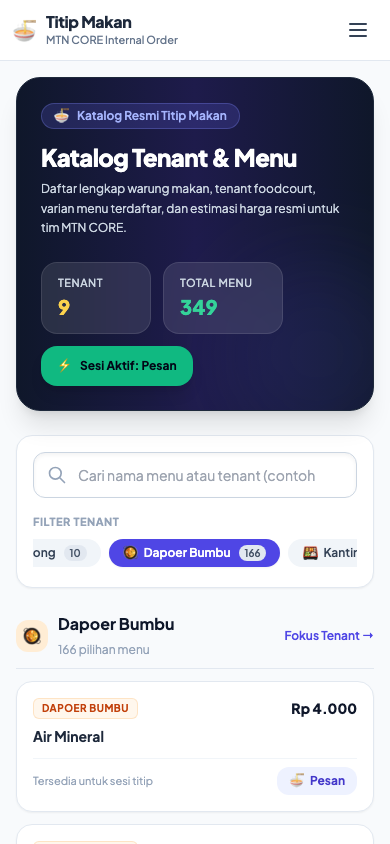
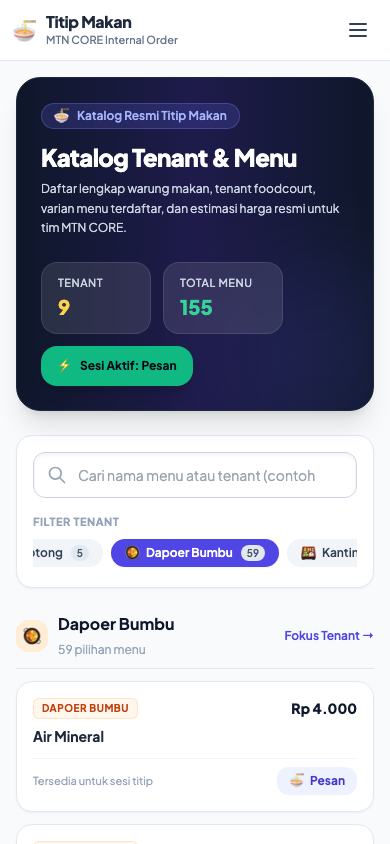
fix(catalog): deduplicate Dapoer Bumbu and Babun menu lists and strip vendor prefixes

diff --git a/src/titip_makan/static/js/app.js b/src/titip_makan/static/js/app.js
@@ -208,10 +208,10 @@ function handleMenuInput() {
         priceInput.value = suggestionsData.prices[val];
     }
 
-    // 2. Auto-fill tenant if empty and menu belongs to a known tenant
+    // 2. Auto-fill tenant if empty and menu belongs to a known tenant (exact match or prefixed with tenant name)
     if (tenantInput && !tenantInput.value.trim() && suggestionsData.menus) {
         for (const [t, menus] of Object.entries(suggestionsData.menus)) {
-            if (menus.includes(val)) {
+            if (menus.includes(val) || (val.toLowerCase().startsWith(t.toLowerCase() + " ") && menus.includes(val.substring(t.length + 1).trim()))) {
                 tenantInput.value = t;
                 updateMenuDatalist();
                 break;

diff --git a/src/titip_makan/core/catalog.py b/src/titip_makan/core/catalog.py
@@ -109,18 +109,14 @@ MASTER_CATALOG = {
         "Dapoer Bumbu Nasi Ayam Penyet": 20000,
         "Dapoer Bumbu Nasi Ayam Kremes": 20000,
         "Dapoer Bumbu Nasi Ayam Bakar": 20000,
-        "Dapoer Bumbu Nasi Ayam Penyet / Kremes / Bakar": 20000,
         "Dapoer Bumbu Ayam Bakar (Tanpa Nasi)": 15000,
         "Dapoer Bumbu Ayam Kremes (Tanpa Nasi)": 15000,
         "Dapoer Bumbu Ayam Penyet (Tanpa Nasi)": 15000,
-        "Dapoer Bumbu Ayam Bakar / Kremes / Penyet (Tanpa Nasi)": 15000,
         "Dapoer Bumbu Nasi Ayam Goreng Asam Manis": 20000,
         "Dapoer Bumbu Nasi Ayam Goreng Tauco": 20000,
-        "Dapoer Bumbu Nasi Ayam Goreng Asam Manis / Tauco": 20000,
         "Dapoer Bumbu Ayam Asam Manis (Tanpa Nasi)": 15000,
         "Dapoer Bumbu Ayam Tauco (Tanpa Nasi)": 15000,
         "Dapoer Bumbu Ayam Garang Asam (Tanpa Nasi)": 15000,
-        "Dapoer Bumbu Ayam Asam Manis / Tauco / Garang Asam (Tanpa Nasi)": 15000,
         "Dapoer Bumbu Nasi Ayam Garang Asam": 20000,
         "Dapoer Bumbu Nasi Timbel Komplit": 27000,
         "Dapoer Bumbu Nasi Timbel Komplit Ayam Goreng": 27000,
@@ -130,22 +126,16 @@ MASTER_CATALOG = {
         "Dapoer Bumbu Nasi Sop Ikan Asam Manis Pedas": 18000,
         "Dapoer Bumbu Nasi Gurame Asam Manis": 18000,
         "Dapoer Bumbu Nasi Gurame Tauco": 18000,
-        "Dapoer Bumbu Nasi Gurame Asam Manis / Tauco": 18000,
-        "Dapoer Bumbu Nasi Cap Cay": 18000,
         "Dapoer Bumbu Nasi Capcay": 18000,
         "Dapoer Bumbu Nasi Capcay + Telor Ceplok": 23000,
-        "Dapoer Bumbu Cap Cay (Tanpa Nasi)": 14000,
         "Dapoer Bumbu Capcay (Tanpa Nasi)": 14000,
         "Dapoer Bumbu Sop Ikan (Tanpa Nasi)": 14000,
         "Dapoer Bumbu Gurame Asam Manis (Tanpa Nasi)": 14000,
         "Dapoer Bumbu Gurame Tauco (Tanpa Nasi)": 14000,
-        "Dapoer Bumbu Cap Cay / Sop Ikan / Gurame Asam Manis / Tauco (Tanpa Nasi)": 14000,
 
         # Nasi Goreng & Olahan Mie / Bihun / Kwetiau
         "Dapoer Bumbu Nasi Goreng Teri": 15000,
         "Dapoer Bumbu Nasi Goreng Bakso": 15000,
-        "Dapoer Bumbu Nasi Goreng Teri / Nasi Goreng Bakso": 15000,
-        "Dapoer Bumbu Nasi Goreng Mawut": 18000,
         "Dapoer Bumbu Nasi Goreng Mawut (Campur Mie)": 18000,
         "Dapoer Bumbu Mie Goreng": 15000,
         "Dapoer Bumbu Mie Rebus": 15000,
@@ -153,49 +143,35 @@ MASTER_CATALOG = {
         "Dapoer Bumbu Bihun Rebus": 15000,
         "Dapoer Bumbu Kwetiau Goreng": 15000,
         "Dapoer Bumbu Kwetiau Rebus": 15000,
-        "Dapoer Bumbu Kwitiaw Goreng": 15000,
-        "Dapoer Bumbu Kwitiaw Rebus": 15000,
-        "Dapoer Bumbu Mie / Bihun / Kwetiau Goreng / Rebus": 15000,
 
         # Menu Tambahan
         "Dapoer Bumbu Nasi Putih": 5000,
         "Dapoer Bumbu Tumis Toge": 8000,
         "Dapoer Bumbu Tumis Kangkung": 8000,
-        "Dapoer Bumbu Tumis Toge / Kangkung": 8000,
         "Dapoer Bumbu Tumis Sawi Putih": 8000,
         "Dapoer Bumbu Tumis Sawi Ijo": 8000,
-        "Dapoer Bumbu Tumis Sawi Putih / Ijo": 8000,
         "Dapoer Bumbu Sayur Asem": 8000,
         "Dapoer Bumbu Terong Penyet": 5000,
         "Dapoer Bumbu Telor Dadar": 5000,
         "Dapoer Bumbu Telor Ceplok": 5000,
-        "Dapoer Bumbu Telor Dadar / Ceplok": 5000,
         "Dapoer Bumbu Tahu Goreng": 2000,
         "Dapoer Bumbu Tempe Goreng": 2000,
-        "Dapoer Bumbu Tahu / Tempe Goreng": 2000,
         "Dapoer Bumbu Tahu Penyet": 3000,
         "Dapoer Bumbu Tempe Penyet": 3000,
-        "Dapoer Bumbu Tahu / Tempe Penyet": 3000,
         "Dapoer Bumbu Kerupuk": 2000,
 
         # Minuman
         "Dapoer Bumbu Es Jeruk": 8000,
         "Dapoer Bumbu Es Lemon Tea": 8000,
-        "Dapoer Bumbu Lemon Tea": 8000,
-        "Dapoer Bumbu Es Jeruk / Es Lemon Tea": 8000,
         "Dapoer Bumbu Wedang Jahe": 5000,
         "Dapoer Bumbu Es Teh Tarik": 6000,
-        "Dapoer Bumbu Teh Tarik": 6000,
         "Dapoer Bumbu Es Indocafe": 5000,
         "Dapoer Bumbu Kopi Tubruk": 5000,
-        "Dapoer Bumbu Es Indocafe / Kopi Tubruk": 5000,
         "Dapoer Bumbu Air Mineral": 4000,
-        "Dapoer Bumbu Teh Manis": 4000,
         "Dapoer Bumbu Teh Manis Panas": 4000,
         "Dapoer Bumbu Es Teh Manis": 5000,
         "Dapoer Bumbu Es Teh Tawar": 3000,
         "Dapoer Bumbu Air Putih Es": 2000,
-        "Dapoer Bumbu Teh Tawar": 1000,
         "Dapoer Bumbu Teh Tawar Panas": 1000,
     }
 }

diff --git a/tests/unit/test_catalog_harga.py b/tests/unit/test_catalog_harga.py
@@ -70,7 +70,6 @@ def test_menu_dapoer_bumbu_lengkap():
     assert db["Dapoer Bumbu Nasi Sop Ikan Asam Manis Pedas"] == 18000
     assert db["Dapoer Bumbu Nasi Gurame Asam Manis"] == 18000
     assert db["Dapoer Bumbu Nasi Gurame Tauco"] == 18000
-    assert db["Dapoer Bumbu Nasi Cap Cay"] == 18000
     assert db["Dapoer Bumbu Nasi Capcay"] == 18000
     assert db["Dapoer Bumbu Nasi Capcay + Telor Ceplok"] == 23000
     assert db["Dapoer Bumbu Nasi Goreng Teri"] == 15000
@@ -82,7 +81,7 @@ def test_menu_dapoer_bumbu_lengkap():
     assert db["Dapoer Bumbu Bihun Rebus"] == 15000
     assert db["Dapoer Bumbu Kwetiau Goreng"] == 15000
     assert db["Dapoer Bumbu Kwetiau Rebus"] == 15000
-    assert db["Dapoer Bumbu Cap Cay (Tanpa Nasi)"] == 14000
+    assert db["Dapoer Bumbu Capcay (Tanpa Nasi)"] == 14000
     assert db["Dapoer Bumbu Sop Ikan (Tanpa Nasi)"] == 14000
     assert db["Dapoer Bumbu Gurame Asam Manis (Tanpa Nasi)"] == 14000
     assert db["Dapoer Bumbu Gurame Tauco (Tanpa Nasi)"] == 14000
@@ -126,5 +125,49 @@ def test_normalize_vendor_dapoer_bumbu():
     assert normalize_vendor("Dapur Bumbu") == "Dapoer Bumbu"
     assert normalize_vendor("dapoer") == "Dapoer Bumbu"
     assert normalize_vendor("dapur") == "Dapoer Bumbu"
+
+
+def test_dapoer_bumbu_catalog_tidak_ada_menu_terdobel():
+    """Memastikan katalog Dapoer Bumbu bersih dari item terdobel (komposit garis miring & ejaan ganda)."""
+    db = MASTER_CATALOG["Dapoer Bumbu"]
+    # 1. Komposit garis miring yang menduplikasi menu individual tidak boleh ada di katalog
+    slash_composites = [
+        "Dapoer Bumbu Nasi Ayam Penyet / Kremes / Bakar",
+        "Dapoer Bumbu Ayam Bakar / Kremes / Penyet (Tanpa Nasi)",
+        "Dapoer Bumbu Nasi Ayam Goreng Asam Manis / Tauco",
+        "Dapoer Bumbu Ayam Asam Manis / Tauco / Garang Asam (Tanpa Nasi)",
+        "Dapoer Bumbu Nasi Gurame Asam Manis / Tauco",
+        "Dapoer Bumbu Nasi Goreng Teri / Nasi Goreng Bakso",
+        "Dapoer Bumbu Mie / Bihun / Kwetiau Goreng / Rebus",
+        "Dapoer Bumbu Cap Cay / Sop Ikan / Gurame Asam Manis / Tauco (Tanpa Nasi)",
+        "Dapoer Bumbu Tumis Toge / Kangkung",
+        "Dapoer Bumbu Tumis Sawi Putih / Ijo",
+        "Dapoer Bumbu Telor Dadar / Ceplok",
+        "Dapoer Bumbu Tahu / Tempe Goreng",
+        "Dapoer Bumbu Tahu / Tempe Penyet",
+        "Dapoer Bumbu Es Jeruk / Es Lemon Tea",
+        "Dapoer Bumbu Es Indocafe / Kopi Tubruk",
+    ]
+    for composite in slash_composites:
+        assert composite not in db, f"Menu komposit terdobel ditemukan: {composite}"
+
+    # 2. Ejaan ganda / variasi duplikat tidak boleh ada
+    duplicate_spellings = [
+        "Dapoer Bumbu Nasi Cap Cay",  # Duplikat dari Nasi Capcay
+        "Dapoer Bumbu Cap Cay (Tanpa Nasi)",  # Duplikat dari Capcay (Tanpa Nasi)
+        "Dapoer Bumbu Kwitiaw Goreng",  # Duplikat dari Kwetiau Goreng
+        "Dapoer Bumbu Kwitiaw Rebus",  # Duplikat dari Kwetiau Rebus
+        "Dapoer Bumbu Nasi Goreng Mawut",  # Duplikat dari Nasi Goreng Mawut (Campur Mie)
+        "Dapoer Bumbu Teh Manis",  # Duplikat dari Teh Manis Panas
+        "Dapoer Bumbu Teh Tawar",  # Duplikat dari Teh Tawar Panas
+        "Dapoer Bumbu Teh Tarik",  # Duplikat dari Es Teh Tarik
+        "Dapoer Bumbu Lemon Tea",  # Duplikat dari Es Lemon Tea
+    ]
+    for dup in duplicate_spellings:
+        assert dup not in db, f"Ejaan/varian duplikat ditemukan: {dup}"
+
+    # 3. Jumlah menu Dapoer Bumbu terdaftar tepat 59 item unik
+    assert len(db) == 59
+
 
 

diff --git a/tests/unit/test_order_service.py b/tests/unit/test_order_service.py
@@ -250,11 +250,12 @@ async def test_get_suggestions_includes_master_catalog_with_prices(db_session):
     assert "Mie Ayam" in suggestions["tenants"]
     assert "Buah Potong" in suggestions["tenants"]
     
-    # Verify menus
-    assert "Babun Nasi Telor Dobel" in suggestions["menus"]["Babun"]
-    assert "Babun Nasi Ayam Kremes" in suggestions["menus"]["Babun"]
+    # Verify menus (clean, non-duplicated dish names)
+    assert "Nasi Telor Dobel" in suggestions["menus"]["Babun"]
+    assert "Nasi Ayam Kremes" in suggestions["menus"]["Babun"]
     assert "Mie Ayam Pangsit Rebus" in suggestions["menus"]["Mie Ayam"]
     assert "Buah Potong Semangka" in suggestions["menus"]["Buah Potong"]
+    assert "Babun Nasi Telor Dobel" not in suggestions["menus"]["Babun"]
     
     # Verify prices mapping
     assert "prices" in suggestions
@@ -360,6 +361,45 @@ async def test_create_order_auto_fills_dapoer_bumbu_catalog_price(db_session):
     assert order.vendor == "Dapoer Bumbu"
     assert order.item_name == "Dapoer Bumbu Nasi Capcay"
     assert order.price == 18000
+
+
+@pytest.mark.asyncio
+async def test_suggestions_no_prefixed_duplicates_dapoer_bumbu_and_babun(db_session):
+    """Memastikan menu suggestions tidak memiliki duplikasi prefix vendor untuk Dapoer Bumbu dan Babun."""
+    order_service = OrderService(db_session)
+    suggestions = await order_service.get_suggestions()
+
+    menus = suggestions["menus"]
+    prices = suggestions["prices"]
+
+    # 1. Dapoer Bumbu
+    dapoer_items = menus.get("Dapoer Bumbu", [])
+    assert len(dapoer_items) > 0
+    # Tidak boleh ada item yang diawali 'Dapoer Bumbu '
+    prefixed_dapoer = [item for item in dapoer_items if item.startswith("Dapoer Bumbu ")]
+    assert prefixed_dapoer == [], f"Ditemukan item terdobel ber-prefix Dapoer Bumbu: {prefixed_dapoer}"
+    # Tidak boleh ada duplikasi
+    assert len(dapoer_items) == len(set(dapoer_items))
+    assert "Nasi Ayam Penyet" in dapoer_items
+    assert "Nasi Capcay" in dapoer_items
+
+    # 2. Babun
+    babun_items = menus.get("Babun", [])
+    assert len(babun_items) > 0
+    # Tidak boleh ada item yang diawali 'Babun '
+    prefixed_babun = [item for item in babun_items if item.startswith("Babun ")]
+    assert prefixed_babun == [], f"Ditemukan item terdobel ber-prefix Babun: {prefixed_babun}"
+    # Tidak boleh ada duplikasi
+    assert len(babun_items) == len(set(babun_items))
+    assert "Nasi Telor Dobel" in babun_items
+    assert "Nasi Ayam Bakar" in babun_items
+
+    # 3. Prices tetap memetakan baik varian tanpa prefix maupun dengan prefix
+    assert prices["Nasi Ayam Penyet"] == 20000
+    assert prices["Dapoer Bumbu Nasi Ayam Penyet"] == 20000
+    assert prices["Nasi Telor Dobel"] == 13000
+    assert prices["Babun Nasi Telor Dobel"] == 13000
+
 
 
 

diff --git a/src/titip_makan/services/order_service.py b/src/titip_makan/services/order_service.py
@@ -137,16 +137,23 @@ class OrderService:
         menus_dict = defaultdict(set)
         prices_dict = {}
 
-        # Seed from master catalog
+        # Tenants whose catalog items have redundant vendor prefix that should be stripped for clean menu display
+        TENANTS_WITH_VENDOR_PREFIX = {"Babun", "Dapoer Bumbu", "Padang"}
+
+        # Seed from master catalog (clean dish names for menus, dual lookup for prices)
         for vendor, items in MASTER_CATALOG.items():
             for item, price in items.items():
-                menus_dict[vendor].add(item)
-                prices_dict[item] = price
-                # Also allow unprefixed name in prices so typing "Nasi Rendang" gets auto-filled
-                if item.startswith(f"{vendor} "):
-                    unprefixed = item[len(vendor) + 1:]
-                    menus_dict[vendor].add(unprefixed)
-                    prices_dict[unprefixed] = price
+                if vendor in TENANTS_WITH_VENDOR_PREFIX and item.startswith(f"{vendor} "):
+                    clean_name = item[len(vendor) + 1:]
+                    menus_dict[vendor].add(clean_name)
+                    prices_dict[clean_name] = price
+                    prices_dict[item] = price
+                else:
+                    menus_dict[vendor].add(item)
+                    prices_dict[item] = price
+                    if item.startswith(f"{vendor} "):
+                        unprefixed = item[len(vendor) + 1:]
+                        prices_dict[unprefixed] = price
 
         if session_id:
             session = await self.session_repo.get_by_id(session_id)
@@ -164,7 +171,10 @@ class OrderService:
             if v_norm:
                 tenants_set.add(v_norm)
                 if item_name:
-                    menus_dict[v_norm].add(item_name)
+                    clean_item = item_name
+                    if v_norm in TENANTS_WITH_VENDOR_PREFIX and clean_item.startswith(f"{v_norm} "):
+                        clean_item = clean_item[len(v_norm) + 1:]
+                    menus_dict[v_norm].add(clean_item)
 
 
         return {
